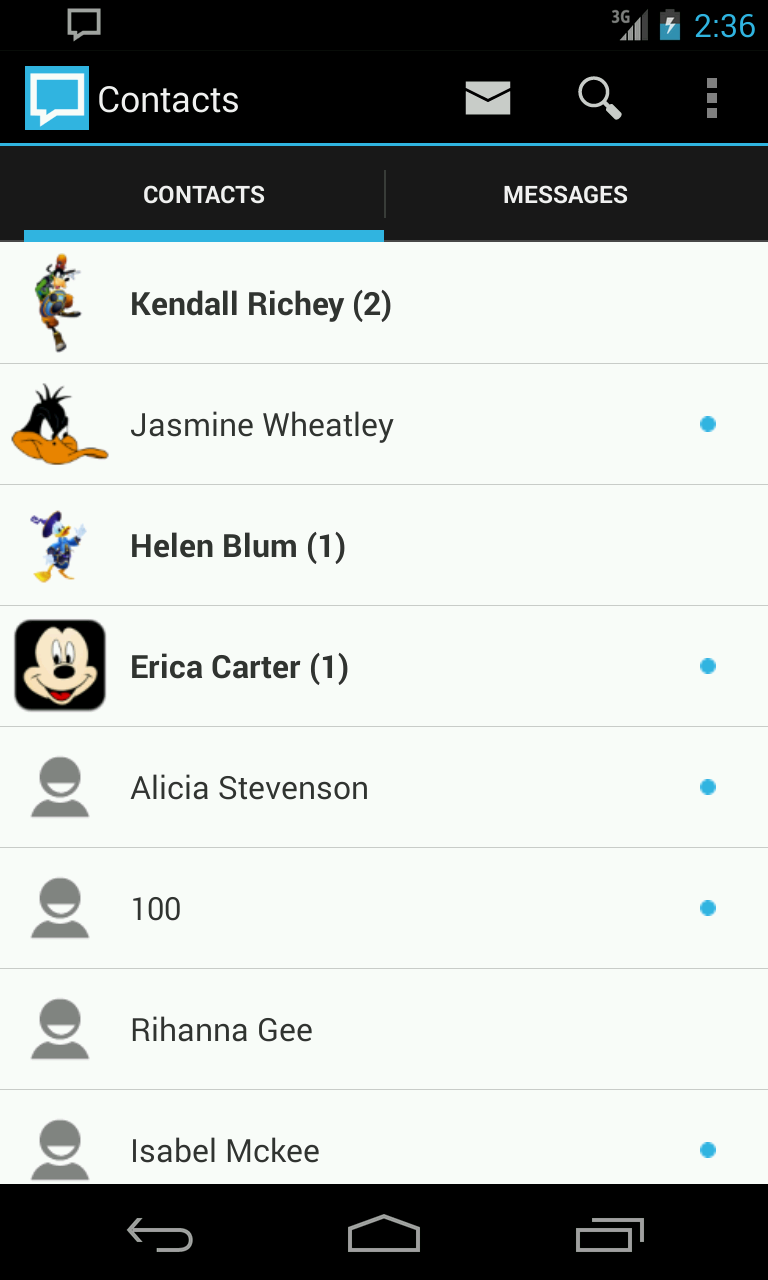
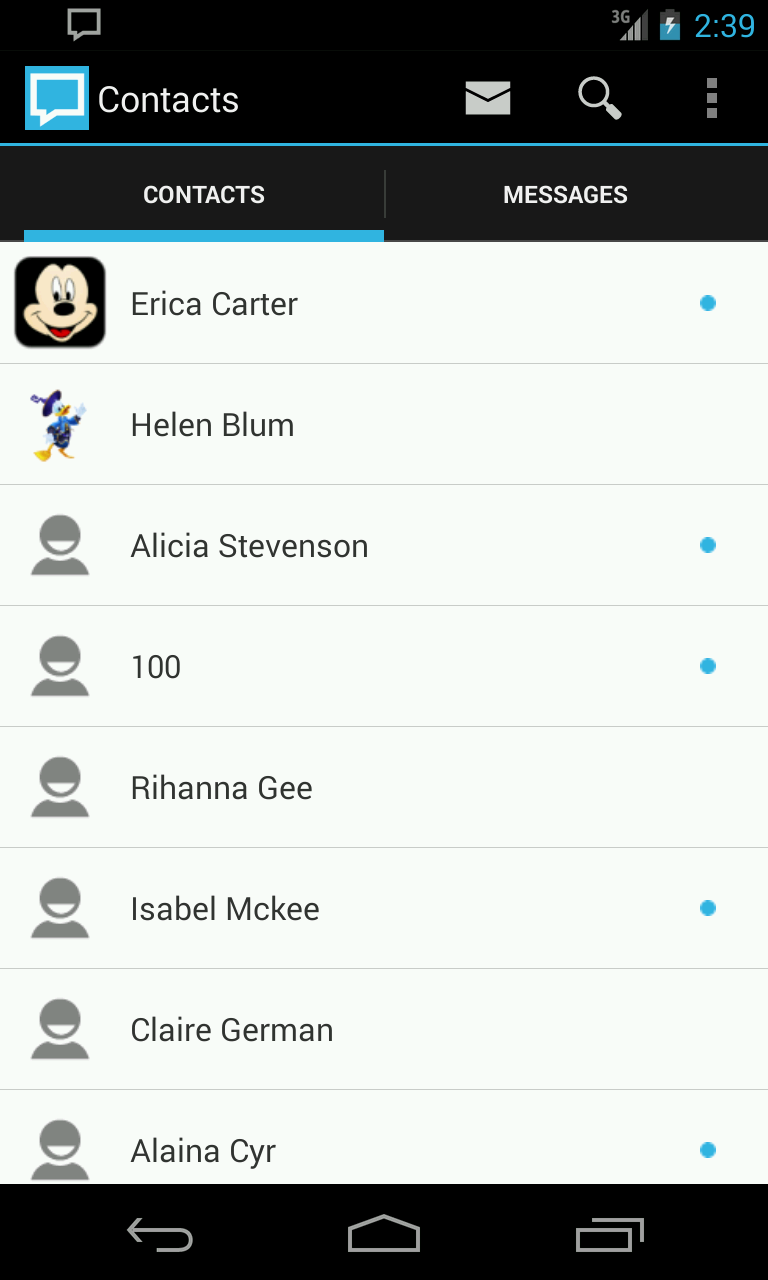
regression tests added

diff --git a/core/misc/bin/config.py b/core/misc/bin/config.py
@@ -4,6 +4,14 @@ from com.android.monkeyrunner.easy import By
 import time
 
 
+def get_package():
+    return 'org.solovyev.android.messenger'
+
+
+def get_start_activity():
+    return '.StartActivity'
+
+
 def get_actions(device_name):
     tests = {'startMainActivity': lambda device: start_activity(device, '.StartActivity'),
              'startPreferencesActivity': lambda device: start_activity(device, '.preferences.PreferencesActivity'),
@@ -20,39 +28,60 @@ def get_actions(device_name):
 
 def get_device_actions():
     return {'Nexus-4': {
-        'verticalScrollInMainActivity': vertical_scroll
+        'scrollContacts': scroll_contacts,
+        'openContact': open_contact,
+        'openContactAndReturn': open_contact_and_return
     }}
 
 
+# Util methods
+
+def get_display_width(device):
+    return int(device.getProperty('display.width'))
+
+
+def get_display_height(device):
+    return int(device.getProperty('display.height'))
+
+
+# Actions
+
 def open_menu(device):
     start_activity(device, '.StartActivity')
-    device.press('KEYCODE_MENU', "DOWN_AND_UP")
-    time.sleep(3)
+    device.press('KEYCODE_MENU', MonkeyDevice.DOWN_AND_UP)
 
 
-def vertical_scroll(device):
-    start_activity(device, '.StartActivity')
+def scroll_contacts(device, should_start_activity=True):
+    if should_start_activity:
+        start_activity(device, '.StartActivity')
+        time.sleep(2)
 
-    width = int(device.getProperty('display.width'))
-    height = int(device.getProperty('display.height'))
+    width = get_display_width(device)
+    height = get_display_height(device)
     device.drag((width / 2, height / 2 + height / 3), (width / 2, height / 2), 0.2, 1)
 
-    time.sleep(1)
+
+def open_contact(device):
+    scroll_contacts(device)
+    time.sleep(2)
+    x = get_display_width(device) / 2
+    y = get_display_height(device) / 2
+    device.touch(x, y, MonkeyDevice.DOWN_AND_UP)
 
 
-def open_contacts_filter(device):
+def open_contact_and_return(device):
+    open_contact(device)
+    time.sleep(3)
+    device.press('KEYCODE_BACK', MonkeyDevice.DOWN_AND_UP)
+
+
+def filter_contacts(device):
     easy_device = EasyMonkeyDevice(device)
     start_activity(device, '.StartActivity')
 
     easy_device.touch(By.id('id/mpp_menu_toggle_filter_box'), MonkeyDevice.DOWN_AND_UP)
-    time.sleep(1)
 
 
 def start_activity(device, activity):
     run_component = get_package() + '/' + get_package() + activity
     device.startActivity(component=run_component)
-    time.sleep(5)
-
-
-def get_package():
-    return 'org.solovyev.android.messenger'

diff --git a/core/src/main/java/org/solovyev/android/messenger/realms/test/TestAccountService.java b/core/src/main/java/org/solovyev/android/messenger/realms/test/TestAccountService.java
@@ -33,7 +33,6 @@ import javax.annotation.Nullable;
 import java.util.ArrayList;
 import java.util.Collections;
 import java.util.List;
-import java.util.concurrent.atomic.AtomicInteger;
 import java.util.concurrent.atomic.AtomicLong;
 
 import static org.joda.time.DateTime.now;
@@ -214,28 +213,23 @@ public class TestAccountService implements AccountUserService, AccountChatServic
 	@Nonnull
 	@Override
 	public List<AccountChat> getChats() {
-		final AtomicInteger index = new AtomicInteger();
-
 		final List<User> contacts = getContacts();
 		final User user = account.getUser();
 
 		final List<AccountChat> chats = new ArrayList<AccountChat>();
-		chats.add(createChat(index, contacts, user));
-		chats.add(createChat(index, contacts, user));
-		chats.add(createChat(index, contacts, user));
-		chats.add(createChat(index, contacts, user));
+		for (int i = 0; i < contacts.size(); i++) {
+			User contact = contacts.get(i);
+			chats.add(createChat(user, contact, i, contacts.size()));
+		}
 		return chats;
 	}
 
-	private MutableAccountChat createChat(@Nonnull AtomicInteger index, @Nonnull List<User> contacts, @Nonnull User user) {
-		final int id = index.getAndIncrement();
-		final User contact = contacts.get(id);
-
-		final MutableAccountChat chat = Chats.newAccountChat(account.newChatEntity(String.valueOf(id)), true);
+	private MutableAccountChat createChat(@Nonnull User user, @Nonnull User contact, int position, int size) {
+		final MutableAccountChat chat = Chats.newAccountChat(account.newChatEntity(contact.getId()), true);
 		chat.addParticipant(user);
 		chat.addParticipant(contact);
 
-		switch (id) {
+		switch (size - position - 1) {
 			case 0:
 				chat.addMessage(newIncomingMessage(contact, chat, "What did you have for breakfast?"));
 				chat.addMessage(newOutgoingMessage(chat, "Chicken liver and mashed potatoes with chocolate milk and a pineapple."));
@@ -252,6 +246,15 @@ public class TestAccountService implements AccountUserService, AccountChatServic
 				chat.addMessage(newIncomingMessage(contact, chat, "Will you make me a cup of coffee?"));
 				chat.addMessage(newOutgoingMessage(chat, "No."));
 				chat.addMessage(newIncomingMessage(contact, chat, "Why?"));
+				break;
+			case 4:
+				chat.addMessage(newIncomingMessage(contact, chat, "Hi, how are you?"));
+				break;
+			case 5:
+				chat.addMessage(newOutgoingMessage(chat, "Haven't heard from you for ages!"));
+				break;
+			default:
+				chat.addMessage(newIncomingMessage(contact, chat, "Hi! My name is " + contact.getDisplayName()).cloneRead());
 				break;
 		}
 

diff --git a/core/misc/bin/take_screenshots.py b/core/misc/bin/take_screenshots.py
@@ -28,6 +28,10 @@ if device:
     device.removePackage(package)
     device.installPackage(apk_location)
 
+    config.start_activity(device, config.get_start_activity())
+    time.sleep(7)
+    device.shell('am force-stop ' + config.get_package())
+
     for name, action in config.get_actions(device_name).iteritems():
         print('Running action: ' + name)
         action(device)
